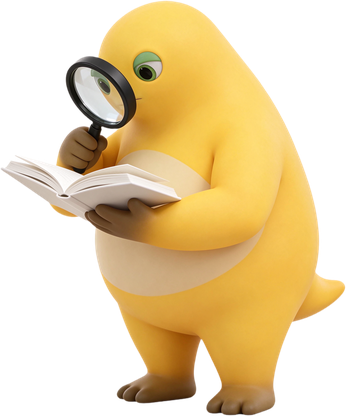
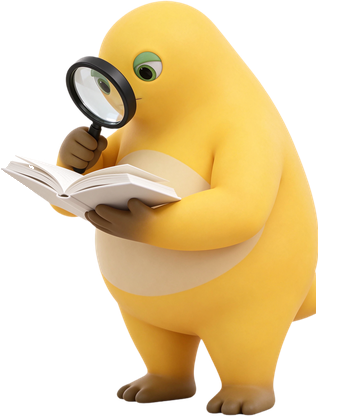
fix(pet): 奶蛙去除尾巴（精灵表+诊断姿势图本地像素修复，零生成额度）
细节：侧窗薄度判据分批擦除 + 细短凸起局部推平；保留脚趾与腹白；缓存破点 v=notail1；重建前端清单。

Changed region(s): [[0.896, 0.6562, 1.0, 0.75]]

diff --git a/web/pet.js b/web/pet.js
@@ -25,7 +25,7 @@
   const PETS = {
     naiwa: {
       label: "奶蛙", tag: "呱呱陪写论文", mode: "sheet", greet: "我来陪你写论文~",
-      sheet: "assets/naiwa/spritesheet.webp", cols: 8, rows: 11, cellW: 192, cellH: 208,
+      sheet: "assets/naiwa/spritesheet.webp?v=notail1", cols: 8, rows: 11, cellW: 192, cellH: 208,
       states: {
         idle:    { row: 0, frames: 7, fps: 5,  loop: true },
         search:  { row: 1, frames: 8, fps: 7.5,  loop: true },
@@ -47,7 +47,7 @@
       },
       look: { row: 9, frames: 16 },
       poses: {
-        diagnose: "assets/naiwa/pose-diagnose.png",
+        diagnose: "assets/naiwa/pose-diagnose.png?v=notail1",
         rewrite: "assets/naiwa/pose-rewrite.png",
       },
       task: { upload: "wait", diagnose: "diagnose", similar: "search", rewrite: "rewrite", batch: "rewrite", ask: "think", export: "wait", backup: "wait", format: "think", guideline: "think", research: "search" },

diff --git a/web/pet.css b/web/pet.css
@@ -65,7 +65,7 @@
   width: 144px;
   height: 156px;
   margin-left: -72px;
-  background-image: url("assets/naiwa/spritesheet.webp");
+  background-image: url("assets/naiwa/spritesheet.webp?v=notail1");
   background-repeat: no-repeat;
   background-size: 1152px 1716px; /* 1536×2288 × 0.75 */
   image-rendering: auto;
@@ -155,7 +155,7 @@
   border-radius: 50%;
   border: 1px solid var(--border, #e5e0d8);
   background-color: var(--surface, #fff);
-  background-image: url("assets/naiwa/spritesheet.webp");
+  background-image: url("assets/naiwa/spritesheet.webp?v=notail1");
   background-repeat: no-repeat;
   background-size: 384px 572px; /* 1536×2288 × 0.25 */
   background-position: -14px -10px;

diff --git a/web/index.html b/web/index.html
@@ -8,7 +8,7 @@
 <script src="/appearance.js?v=4a052ec7cfd6"></script>
 <link rel="stylesheet" href="/style.css?v=5add6033e737">
 <link rel="stylesheet" href="/appearance.css?v=e27f2e6a68c5">
-<link rel="stylesheet" href="/pet.css?v=a07d62172576">
+<link rel="stylesheet" href="/pet.css?v=07464ed364fa">
 </head>
 <body>
 <div id="theme-atmosphere" class="theme-atmosphere" aria-hidden="true"></div>
@@ -846,6 +846,6 @@
 
 <script src="/app.js?v=12b3b74bf227"></script>
 <script src="/paper.js?v=4e28a39baf5f"></script>
-<script src="/pet.js?v=011588796007"></script>
+<script src="/pet.js?v=ad8292798039"></script>
 </body>
 </html>
